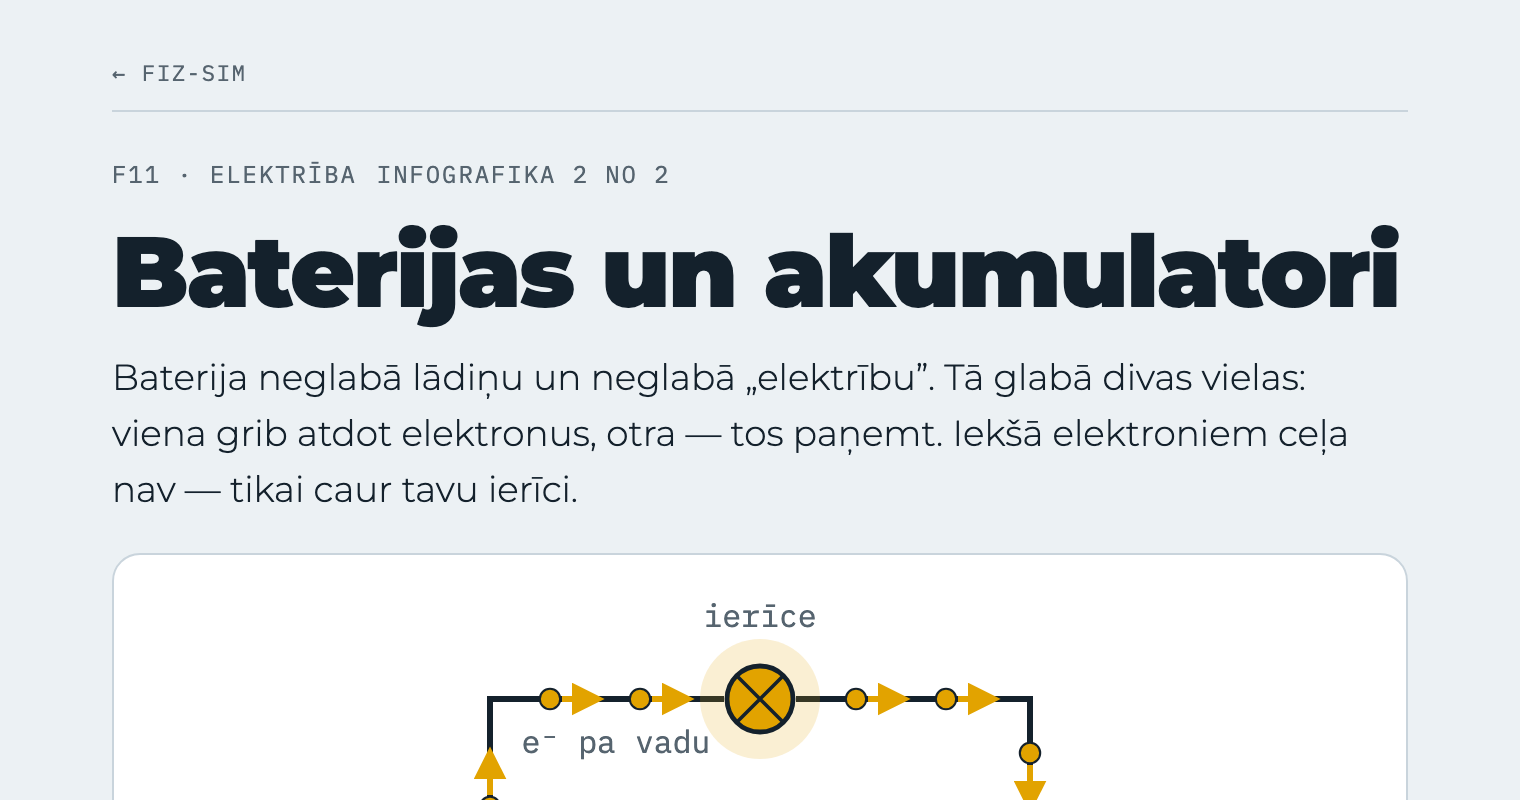
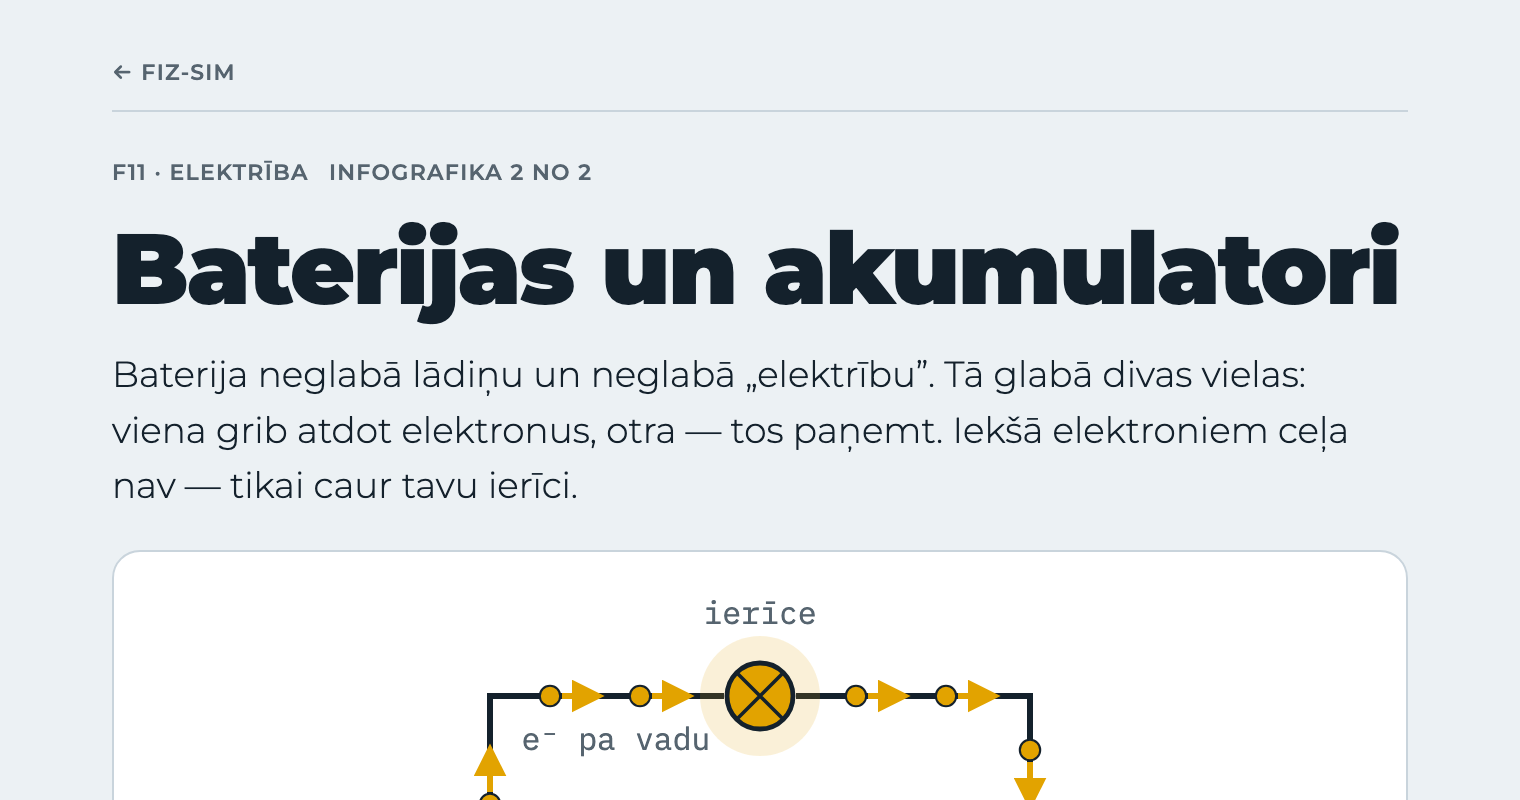
Infographics: the small labels (section kickers, note labels, card column heads, eyebrow, next link, FIZ-SIM bar) are Montserrat 600 like the headings; IBM Plex Mono stays only for formulas, value chips and the diagrams; preview images regenerated

diff --git a/infografikas/baterijas-un-akumulatori.html b/infografikas/baterijas-un-akumulatori.html
@@ -37,13 +37,13 @@
   --el:#FFC93A; --liquid:#163A3A; --metal:#7F8B94; --brass:#D2A447; --bar:#A9C3D6;
   --ok:#5FD08F; --ok-soft:#173A27; --no:#FF8A80; --no-soft:#47201E; color-scheme:dark}
 *{box-sizing:border-box}
-.fizsim{font-family:var(--f-mono);font-size:11px;letter-spacing:.08em;text-transform:uppercase;border-bottom:1px solid var(--line);padding-bottom:10px;margin-bottom:22px}
+.fizsim{font-family:var(--f-display);font-weight:600;font-size:11px;letter-spacing:.06em;text-transform:uppercase;border-bottom:1px solid var(--line);padding-bottom:10px;margin-bottom:22px}
 .fizsim a{color:var(--muted);text-decoration:none}
 .fizsim a:hover{color:var(--ink)}
 .fizsim a:focus-visible{outline:3px solid var(--neg);outline-offset:2px}
 body{margin:0;background:var(--bg);color:var(--ink);font-family:var(--f-body);font-size:17px;line-height:1.55;-webkit-text-size-adjust:100%}
 .wrap{max-width:680px;margin:0 auto;padding-left:max(16px,env(safe-area-inset-left,0px));padding-right:max(16px,env(safe-area-inset-right,0px));padding-block:28px 72px}
-.eyebrow{font-family:var(--f-mono);font-size:12px;letter-spacing:.08em;text-transform:uppercase;color:var(--muted);display:flex;gap:10px;flex-wrap:wrap;align-items:center}
+.eyebrow{font-family:var(--f-display);font-weight:600;font-size:11px;letter-spacing:.06em;text-transform:uppercase;color:var(--muted);display:flex;gap:10px;flex-wrap:wrap;align-items:center}
 .eyebrow .dot{display:inline-flex;gap:4px}
 .eyebrow .dot i{width:9px;height:9px;border-radius:50%;display:inline-block}
 h1{font-family:var(--f-display);font-weight:900;font-size:clamp(2.1rem,8vw,3.1rem);line-height:1.02;letter-spacing:-.02em;margin:14px 0 14px;text-wrap:balance}
@@ -52,7 +52,7 @@ h1 .p{color:var(--pos)} h1 .n{color:var(--neg)}
 h2{font-family:var(--f-display);font-weight:900;font-size:1.55rem;line-height:1.15;letter-spacing:-.01em;margin:6px 0 10px;text-wrap:balance}
 h3{font-family:var(--f-display);font-weight:900;font-size:1.15rem;margin:22px 0 6px}
 section{margin-top:46px}
-.kick{font-family:var(--f-mono);font-size:12px;letter-spacing:.08em;text-transform:uppercase;color:var(--muted);display:flex;align-items:center;gap:8px}
+.kick{font-family:var(--f-display);font-weight:600;font-size:11px;letter-spacing:.06em;text-transform:uppercase;color:var(--muted);display:flex;align-items:center;gap:8px}
 .kick b{display:inline-grid;place-items:center;width:24px;height:24px;border-radius:50%;background:var(--ink);color:var(--bg);font-weight:600;letter-spacing:0}
 p{margin:0 0 12px}
 ul,ol{padding-left:1.25em;margin:0 0 12px}
@@ -62,7 +62,7 @@ figure{background:var(--surface);border:1px solid var(--line);border-radius:14px
 figure svg{display:block;width:100%;max-width:540px;height:auto;margin:0 auto}
 figcaption{font-size:.86rem;color:var(--muted);margin:8px 4px 0;line-height:1.45}
 .note{border:1.5px dashed var(--line);border-radius:12px;padding:12px 14px;margin:16px 0;background:var(--surface)}
-.note .lab{font-family:var(--f-mono);font-size:11.5px;letter-spacing:.08em;text-transform:uppercase;font-weight:600;margin-bottom:4px;display:block}
+.note .lab{font-family:var(--f-display);font-size:11px;letter-spacing:.06em;text-transform:uppercase;font-weight:600;margin-bottom:4px;display:block}
 .note.warn{border-color:var(--pos)} .note.warn .lab{color:var(--pos)}
 .note.key{border-color:var(--neg)} .note.key .lab{color:var(--neg)}
 .note p:last-child,.note ul:last-child{margin-bottom:0}
@@ -79,15 +79,15 @@ sub,sup{line-height:0}
 .panel .eq{margin-bottom:0}
 .steps{counter-reset:s;list-style:none;padding:0}
 .steps li{counter-increment:s;display:grid;grid-template-columns:30px 1fr;gap:10px;align-items:start}
-.steps li::before{content:counter(s);font-family:var(--f-mono);font-weight:600;font-size:13px;width:26px;height:26px;border-radius:50%;border:1.5px solid var(--ink);display:grid;place-items:center;margin-top:1px}
+.steps li::before{content:counter(s);font-family:var(--f-display);font-weight:600;font-size:12px;width:26px;height:26px;border-radius:50%;border:1.5px solid var(--ink);display:grid;place-items:center;margin-top:1px}
 .sum{background:var(--ink);color:var(--bg);border-radius:16px;padding:18px 18px 8px;margin-top:46px}
 .sum h2{color:var(--bg);margin-top:0}
 .sum ol{padding-left:1.3em} .sum li::marker{color:var(--bg)}
 .sum .pos{color:var(--pos-soft)} .sum .neg{color:var(--neg-soft)}
 .next{display:block;margin-top:28px;padding:14px 16px;border:1.5px solid var(--ink);border-radius:12px;color:var(--ink);text-decoration:none;font-weight:600}
-.next span{display:block;font-family:var(--f-mono);font-size:11.5px;letter-spacing:.08em;text-transform:uppercase;color:var(--muted);font-weight:500}
+.next span{display:block;font-family:var(--f-display);font-size:11px;letter-spacing:.06em;text-transform:uppercase;color:var(--muted);font-weight:600}
 .next:focus-visible{outline:3px solid var(--neg);outline-offset:2px}
-footer{margin-top:30px;font-size:.8rem;color:var(--muted);font-family:var(--f-mono)}
+footer{margin-top:30px;font-size:.8rem;color:var(--muted);font-family:var(--f-body)}
 /* ķīmijas kartītes */
 .chem{background:var(--surface);border:1px solid var(--line);border-radius:14px;padding:14px;margin:16px 0}
 .chem header{display:flex;flex-wrap:wrap;gap:8px;align-items:baseline;justify-content:space-between}
@@ -100,13 +100,13 @@ footer{margin-top:30px;font-size:.8rem;color:var(--muted);font-family:var(--f-mo
 .chip.no{background:var(--no-soft);color:var(--no);border-color:transparent;font-weight:600}
 .sand{display:grid;grid-template-columns:1fr 1fr 1fr;border-radius:10px;overflow:hidden;border:1px solid var(--line);margin:4px 0 12px;font-size:.88rem;line-height:1.3}
 .sand div{padding:8px 8px;min-width:0;overflow-wrap:anywhere;hyphens:auto}
-.sand div b{display:block;font-family:var(--f-mono);font-size:10.5px;letter-spacing:.06em;text-transform:uppercase;font-weight:600;margin-bottom:2px}
+.sand div b{display:block;font-family:var(--f-display);font-size:10px;letter-spacing:.05em;text-transform:uppercase;font-weight:600;margin-bottom:2px}
 .sand .a{background:var(--neg-soft)} .sand .a b{color:var(--neg)}
 .sand .m{background:var(--liquid)} .sand .m b{color:var(--muted)}
 .sand .k{background:var(--pos-soft)} .sand .k b{color:var(--pos)}
 .chem p{font-size:.95rem}
 .chem .defs div{grid-template-columns:1fr;gap:1px}
-.chem .defs .t{font-family:var(--f-mono);font-size:11.5px;letter-spacing:.06em;text-transform:uppercase;color:var(--muted)}
+.chem .defs .t{font-family:var(--f-display);font-size:11px;letter-spacing:.06em;text-transform:uppercase;color:var(--muted)}
 a{color:var(--neg)}
 .legend{margin:8px 4px 0;padding-left:0;list-style:none;font-size:.88rem;display:grid;gap:4px}
 .legend li{display:grid;grid-template-columns:22px 1fr;gap:6px;margin:0}

diff --git a/infografikas/strava-skidrumos.html b/infografikas/strava-skidrumos.html
@@ -37,13 +37,13 @@
   --el:#FFC93A; --liquid:#163A3A; --metal:#7F8B94; --brass:#D2A447; --bar:#A9C3D6;
   --ok:#5FD08F; --ok-soft:#173A27; --no:#FF8A80; --no-soft:#47201E; color-scheme:dark}
 *{box-sizing:border-box}
-.fizsim{font-family:var(--f-mono);font-size:11px;letter-spacing:.08em;text-transform:uppercase;border-bottom:1px solid var(--line);padding-bottom:10px;margin-bottom:22px}
+.fizsim{font-family:var(--f-display);font-weight:600;font-size:11px;letter-spacing:.06em;text-transform:uppercase;border-bottom:1px solid var(--line);padding-bottom:10px;margin-bottom:22px}
 .fizsim a{color:var(--muted);text-decoration:none}
 .fizsim a:hover{color:var(--ink)}
 .fizsim a:focus-visible{outline:3px solid var(--neg);outline-offset:2px}
 body{margin:0;background:var(--bg);color:var(--ink);font-family:var(--f-body);font-size:17px;line-height:1.55;-webkit-text-size-adjust:100%}
 .wrap{max-width:680px;margin:0 auto;padding-left:max(16px,env(safe-area-inset-left,0px));padding-right:max(16px,env(safe-area-inset-right,0px));padding-block:28px 72px}
-.eyebrow{font-family:var(--f-mono);font-size:12px;letter-spacing:.08em;text-transform:uppercase;color:var(--muted);display:flex;gap:10px;flex-wrap:wrap;align-items:center}
+.eyebrow{font-family:var(--f-display);font-weight:600;font-size:11px;letter-spacing:.06em;text-transform:uppercase;color:var(--muted);display:flex;gap:10px;flex-wrap:wrap;align-items:center}
 .eyebrow .dot{display:inline-flex;gap:4px}
 .eyebrow .dot i{width:9px;height:9px;border-radius:50%;display:inline-block}
 h1{font-family:var(--f-display);font-weight:900;font-size:clamp(2.1rem,8vw,3.1rem);line-height:1.02;letter-spacing:-.02em;margin:14px 0 14px;text-wrap:balance}
@@ -52,7 +52,7 @@ h1 .p{color:var(--pos)} h1 .n{color:var(--neg)}
 h2{font-family:var(--f-display);font-weight:900;font-size:1.55rem;line-height:1.15;letter-spacing:-.01em;margin:6px 0 10px;text-wrap:balance}
 h3{font-family:var(--f-display);font-weight:900;font-size:1.15rem;margin:22px 0 6px}
 section{margin-top:46px}
-.kick{font-family:var(--f-mono);font-size:12px;letter-spacing:.08em;text-transform:uppercase;color:var(--muted);display:flex;align-items:center;gap:8px}
+.kick{font-family:var(--f-display);font-weight:600;font-size:11px;letter-spacing:.06em;text-transform:uppercase;color:var(--muted);display:flex;align-items:center;gap:8px}
 .kick b{display:inline-grid;place-items:center;width:24px;height:24px;border-radius:50%;background:var(--ink);color:var(--bg);font-weight:600;letter-spacing:0}
 p{margin:0 0 12px}
 ul,ol{padding-left:1.25em;margin:0 0 12px}
@@ -62,7 +62,7 @@ figure{background:var(--surface);border:1px solid var(--line);border-radius:14px
 figure svg{display:block;width:100%;max-width:540px;height:auto;margin:0 auto}
 figcaption{font-size:.86rem;color:var(--muted);margin:8px 4px 0;line-height:1.45}
 .note{border:1.5px dashed var(--line);border-radius:12px;padding:12px 14px;margin:16px 0;background:var(--surface)}
-.note .lab{font-family:var(--f-mono);font-size:11.5px;letter-spacing:.08em;text-transform:uppercase;font-weight:600;margin-bottom:4px;display:block}
+.note .lab{font-family:var(--f-display);font-size:11px;letter-spacing:.06em;text-transform:uppercase;font-weight:600;margin-bottom:4px;display:block}
 .note.warn{border-color:var(--pos)} .note.warn .lab{color:var(--pos)}
 .note.key{border-color:var(--neg)} .note.key .lab{color:var(--neg)}
 .note p:last-child,.note ul:last-child{margin-bottom:0}
@@ -79,15 +79,15 @@ sub,sup{line-height:0}
 .panel .eq{margin-bottom:0}
 .steps{counter-reset:s;list-style:none;padding:0}
 .steps li{counter-increment:s;display:grid;grid-template-columns:30px 1fr;gap:10px;align-items:start}
-.steps li::before{content:counter(s);font-family:var(--f-mono);font-weight:600;font-size:13px;width:26px;height:26px;border-radius:50%;border:1.5px solid var(--ink);display:grid;place-items:center;margin-top:1px}
+.steps li::before{content:counter(s);font-family:var(--f-display);font-weight:600;font-size:12px;width:26px;height:26px;border-radius:50%;border:1.5px solid var(--ink);display:grid;place-items:center;margin-top:1px}
 .sum{background:var(--ink);color:var(--bg);border-radius:16px;padding:18px 18px 8px;margin-top:46px}
 .sum h2{color:var(--bg);margin-top:0}
 .sum ol{padding-left:1.3em} .sum li::marker{color:var(--bg)}
 .sum .pos{color:var(--pos-soft)} .sum .neg{color:var(--neg-soft)}
 .next{display:block;margin-top:28px;padding:14px 16px;border:1.5px solid var(--ink);border-radius:12px;color:var(--ink);text-decoration:none;font-weight:600}
-.next span{display:block;font-family:var(--f-mono);font-size:11.5px;letter-spacing:.08em;text-transform:uppercase;color:var(--muted);font-weight:500}
+.next span{display:block;font-family:var(--f-display);font-size:11px;letter-spacing:.06em;text-transform:uppercase;color:var(--muted);font-weight:600}
 .next:focus-visible{outline:3px solid var(--neg);outline-offset:2px}
-footer{margin-top:30px;font-size:.8rem;color:var(--muted);font-family:var(--f-mono)}
+footer{margin-top:30px;font-size:.8rem;color:var(--muted);font-family:var(--f-body)}
 /* ķīmijas kartītes */
 .chem{background:var(--surface);border:1px solid var(--line);border-radius:14px;padding:14px;margin:16px 0}
 .chem header{display:flex;flex-wrap:wrap;gap:8px;align-items:baseline;justify-content:space-between}
@@ -100,13 +100,13 @@ footer{margin-top:30px;font-size:.8rem;color:var(--muted);font-family:var(--f-mo
 .chip.no{background:var(--no-soft);color:var(--no);border-color:transparent;font-weight:600}
 .sand{display:grid;grid-template-columns:1fr 1fr 1fr;border-radius:10px;overflow:hidden;border:1px solid var(--line);margin:4px 0 12px;font-size:.88rem;line-height:1.3}
 .sand div{padding:8px 8px;min-width:0;overflow-wrap:anywhere;hyphens:auto}
-.sand div b{display:block;font-family:var(--f-mono);font-size:10.5px;letter-spacing:.06em;text-transform:uppercase;font-weight:600;margin-bottom:2px}
+.sand div b{display:block;font-family:var(--f-display);font-size:10px;letter-spacing:.05em;text-transform:uppercase;font-weight:600;margin-bottom:2px}
 .sand .a{background:var(--neg-soft)} .sand .a b{color:var(--neg)}
 .sand .m{background:var(--liquid)} .sand .m b{color:var(--muted)}
 .sand .k{background:var(--pos-soft)} .sand .k b{color:var(--pos)}
 .chem p{font-size:.95rem}
 .chem .defs div{grid-template-columns:1fr;gap:1px}
-.chem .defs .t{font-family:var(--f-mono);font-size:11.5px;letter-spacing:.06em;text-transform:uppercase;color:var(--muted)}
+.chem .defs .t{font-family:var(--f-display);font-size:11px;letter-spacing:.06em;text-transform:uppercase;color:var(--muted)}
 a{color:var(--neg)}
 .legend{margin:8px 4px 0;padding-left:0;list-style:none;font-size:.88rem;display:grid;gap:4px}
 .legend li{display:grid;grid-template-columns:22px 1fr;gap:6px;margin:0}
